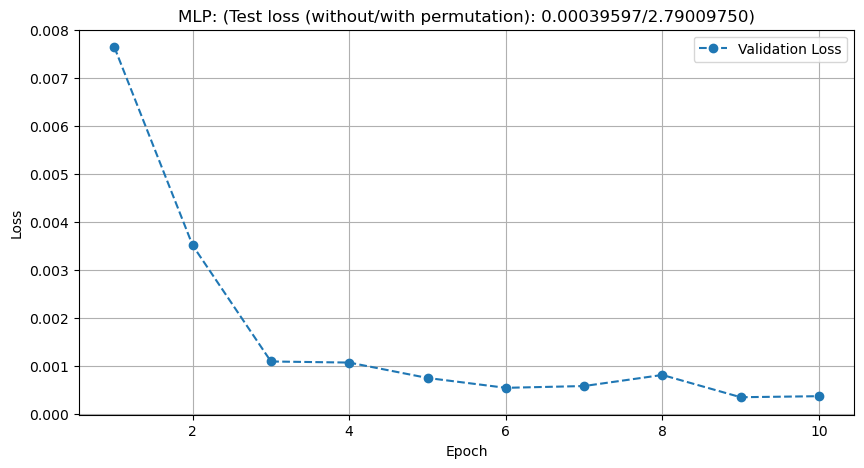
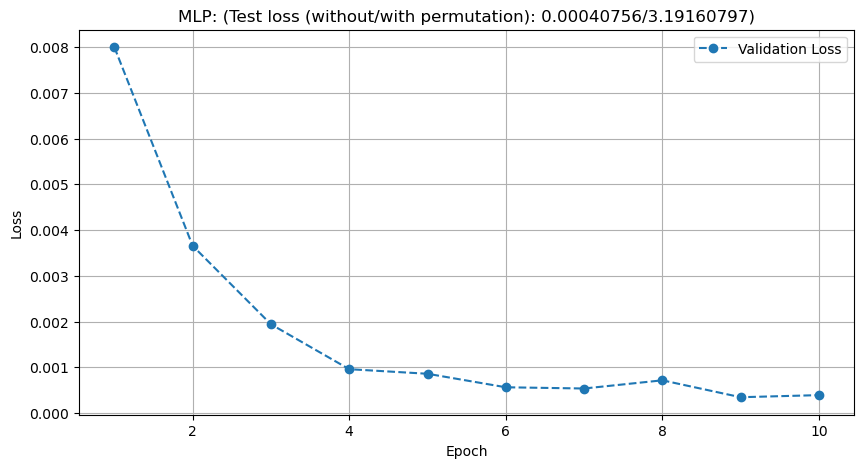
Trained GNN as well and MLP; fixes evaluation bug by adding torch no_grad

diff --git a/assignment_2_13677640/part3/train.py b/assignment_2_13677640/part3/train.py
@@ -28,7 +28,7 @@ from tqdm import tqdm
 
 from data import *
 from networks import *
-from utils import print_update, plot_sequences
+from utils import plot_sequences
 
 
 def permute_indices(molecules: Batch) -> Batch:
@@ -87,7 +87,16 @@ def compute_loss(
     # model = model.train()
     
     if isinstance(model, MLP):
-        y_hat = model(get_mlp_features(molecules))
+        x = get_mlp_features(molecules)
+        y_hat = model(x)
+    elif isinstance(model, GNN):
+        x = molecules.x[:, :Z_ONE_HOT_DIM]
+        y_hat = model(
+            x=x,
+            edge_index=molecules.edge_index,
+            edge_attr=molecules.edge_attr,
+            batch_idx=molecules.batch,
+        )
 
     y = get_labels(molecules).unsqueeze(1)
     loss = criterion(y_hat, y)
@@ -127,17 +136,18 @@ def evaluate_model(
 
     losses = []
     iterator = tqdm(data_loader, desc=f"::::: Evaluating | ")
-    for batch in iterator:
-        
-        if permute:
-            batch = permute_indices(batch)
+    with torch.no_grad():
+        for batch in iterator:
+            
+            if permute:
+                batch = permute_indices(batch)
 
-        loss = compute_loss(model, batch, criterion)
+            loss = compute_loss(model, batch, criterion)
 
-        losses.append(loss.item())
-        
-        display = f"::::: Evaluating | {loss.item():.8f}"
-        iterator.set_description(display)
+            losses.append(loss.item())
+            
+            display = f"::::: Evaluating | {loss.item():.8f}"
+            iterator.set_description(display)
 
     avg_loss = np.mean(losses)
     print(f"::::: Evaluation finished on data_loader with loss: {loss}")

diff --git a/assignment_2_13677640/part3/networks.py b/assignment_2_13677640/part3/networks.py
@@ -187,7 +187,7 @@ class GNN(nn.Module):
                 x = l(x)
 
         # global average pooling
-        x = geom_nn.global_mean_pool(x, batch_idx)
+        x = geom_nn.global_add_pool(x, batch_idx)
         
         # return the output
         out = self.head(x)
@@ -206,7 +206,7 @@ class GNN(nn.Module):
 if __name__ == "__main__":
     # test your implementation
     from torch_geometric.loader import DataLoader
-    from data import get_qm9, EDGE_ATTR_DIM
+    from data import get_qm9, EDGE_ATTR_DIM, Z_ONE_HOT_DIM
     
     mlp = MLP(n_inputs=3509, n_hidden=[10, 10], n_outputs=1)
     print(mlp)
@@ -216,7 +216,7 @@ if __name__ == "__main__":
     
     
     gnn = GNN(
-        n_node_features=5,
+        n_node_features=Z_ONE_HOT_DIM,
         n_edge_features=EDGE_ATTR_DIM,
         n_hidden=10,
         n_output=1,
